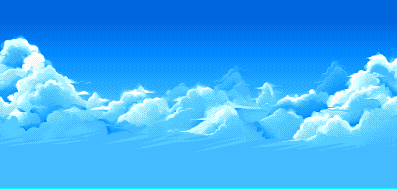
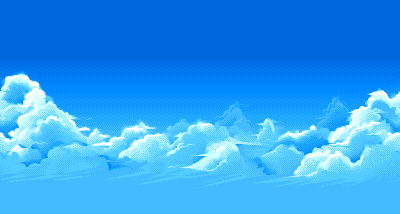
Updated cloud background

diff --git a/src/gamebackground.ts b/src/gamebackground.ts
@@ -22,7 +22,7 @@ export default class GameBackground {
     const gameBackground = ImageCache.getImage(CacheKey.BACKGROUND) as ImageBitmap;
     const clouds = ImageCache.getImage(CacheKey.CLOUDS) as ImageBitmap;
     if (this.ctx !== null) {
-      this.ctx.drawImage(clouds, 0, -10);
+      this.ctx.drawImage(clouds, 0, 0);
       this.ctx.drawImage(gameBackground, this.xPos[0], 0);
       this.ctx.drawImage(gameBackground, this.xPos[1], 0);
     }
